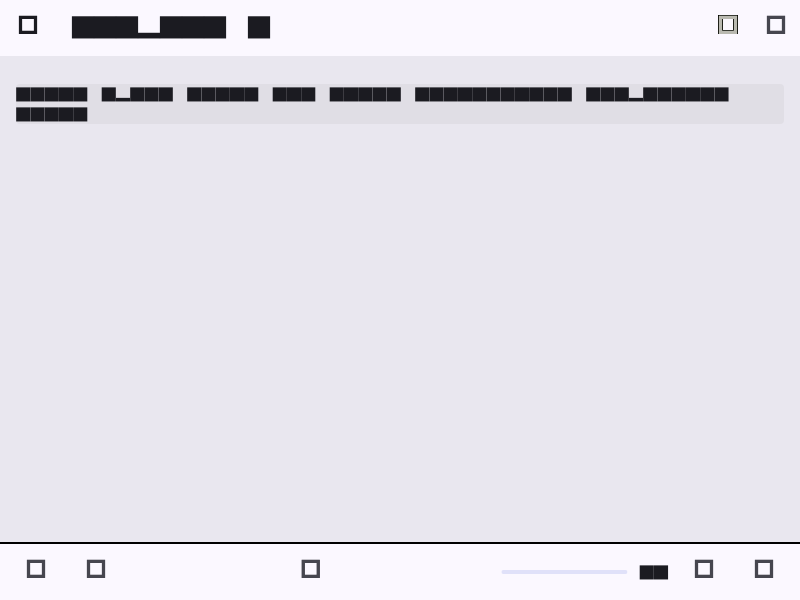
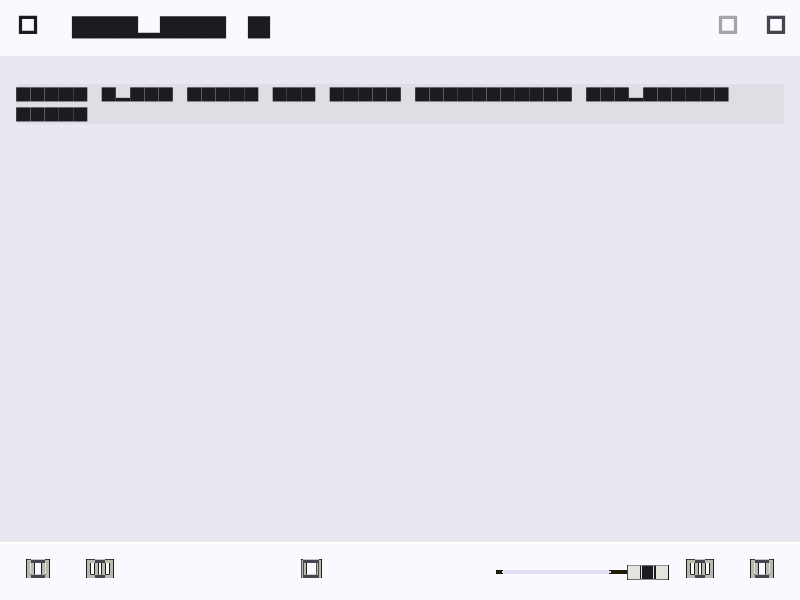
feat(reader): add tts controls and adjust bottom bar styling
- Add showTtsControls parameter to ReaderBottomBar
- Adjust spacing and padding in reader bottom bar
- Update golden test tolerance to 0.03
- Modify Dockerfile to include README.md before pip install
- Update Python version requirement to >=3.11
- Add LLM_DIRECT_FIRST environment variable handling
- Update CI workflow to trigger on successful CI runs

Changed region(s): [[0.0, 0.9, 1.0, 0.99]]

diff --git a/lib/features/reader/widgets/reader_bottom_bar.dart b/lib/features/reader/widgets/reader_bottom_bar.dart
@@ -12,6 +12,7 @@ class ReaderBottomBar extends StatelessWidget {
     required this.iconSize,
     required this.spacing,
     required this.showPercent,
+    required this.showTtsControls,
     required this.scrollProgress,
     required this.onEditToggle,
     required this.onPrev,
@@ -28,6 +29,7 @@ class ReaderBottomBar extends StatelessWidget {
   final double iconSize;
   final double spacing;
   final bool showPercent;
+  final bool showTtsControls;
   final double scrollProgress;
   final VoidCallback onEditToggle;
   final VoidCallback onPrev;
@@ -41,7 +43,7 @@ class ReaderBottomBar extends StatelessWidget {
   Widget build(BuildContext context) {
     final l10n = AppLocalizations.of(context)!;
     return Padding(
-      padding: const EdgeInsets.symmetric(horizontal: Spacing.m),
+      padding: const EdgeInsets.symmetric(horizontal: Spacing.l),
       child: Row(
         children: [
           if (canEdit) ...[
@@ -129,7 +131,7 @@ class ReaderBottomBar extends StatelessWidget {
               ),
             ),
           SizedBox(width: spacing),
-          if (!editMode) ...[
+          if (!editMode && showTtsControls) ...[
             Semantics(
               button: true,
               label: l10n.ttsSpeechRate,

diff --git a/lib/features/reader/widgets/reader_bottom_bar_shell.dart b/lib/features/reader/widgets/reader_bottom_bar_shell.dart
@@ -46,7 +46,9 @@ class ReaderBottomBarShell extends StatelessWidget {
     const double cozyWidth = 720.0;
     final bool isCompact = maxWidth < compactWidth;
     final bool isRegular = maxWidth >= cozyWidth;
-    final double spacing = isRegular ? Spacing.m : Spacing.s;
+    final double spacing = isRegular
+        ? Spacing.l
+        : (isCompact ? Spacing.s : Spacing.m);
     const double iconSize = 24.0;
     final bool showPercent = !isCompact;
     final bool isWideForEdit = maxWidth >= 900.0;
@@ -72,6 +74,7 @@ class ReaderBottomBarShell extends StatelessWidget {
       iconSize: iconSize,
       spacing: spacing,
       showPercent: showPercent,
+      showTtsControls: !isCompact,
       scrollProgress: scrollProgress,
       onEditToggle: onEditToggle,
       onPrev: onPrev,

diff --git a/lib/features/reader/chapter_reader_screen.dart b/lib/features/reader/chapter_reader_screen.dart
@@ -341,13 +341,13 @@ class _ChapterReaderContentState extends ConsumerState<_ChapterReaderContent> {
             ),
         ],
       ),
-      bottomNavigationBar: state.fullScreen || isAiChatOpen
+      bottomNavigationBar: state.fullScreen
           ? null
           : SafeArea(
               top: false,
               child: Material(
                 color: Theme.of(context).colorScheme.surface,
-                elevation: 2,
+                elevation: 0,
                 child: SizedBox(
                   height: kToolbarHeight,
                   child: LayoutBuilder(

diff --git a/test/reader_bar_golden_test.dart b/test/reader_bar_golden_test.dart
@@ -14,7 +14,7 @@ void main() {
     prevComparator = goldenFileComparator;
     goldenFileComparator = TolerantGoldenComparator(
       Platform.script,
-      pixelDiffTolerance: 0.01,
+      pixelDiffTolerance: 0.03,
     );
   });
   tearDownAll(() {

diff --git a/test/reader_bottom_bar_widget_test.dart b/test/reader_bottom_bar_widget_test.dart
@@ -17,6 +17,7 @@ void main() {
             iconSize: 20,
             spacing: 8,
             showPercent: true,
+            showTtsControls: true,
             scrollProgress: 0.42,
             onEditToggle: voidFn,
             onPrev: voidFn,
